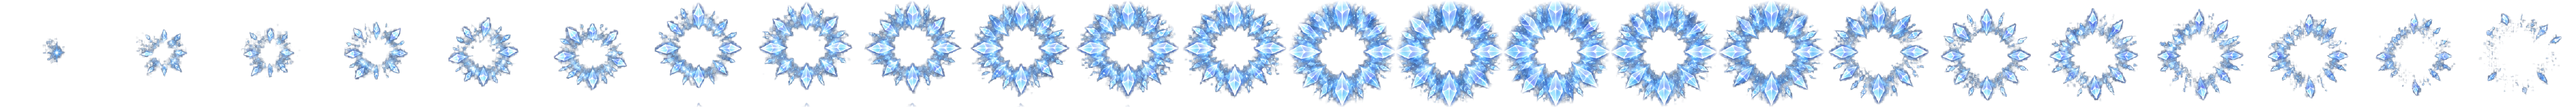
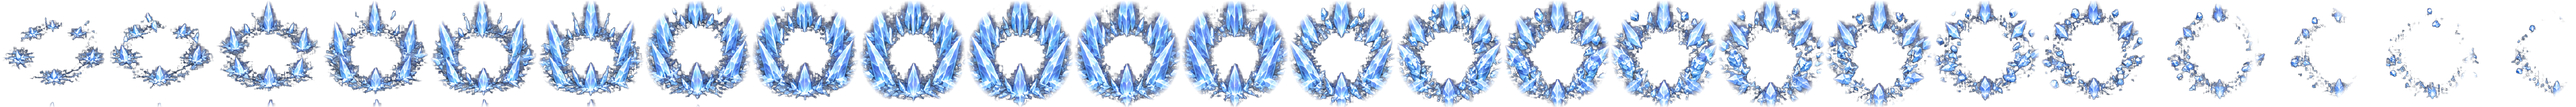
🌫 Meteoro sem a coroa de fumaça, e a Glacial nasce do chão
Três pedidos do dono na mesma madrugada.

🌫 A FUMAÇA DO METEORO SAI DO MEIO DA QUEDA PARA O FIM — "essa nuvem mais do
meio pro final não precisa, depois é somente o meteoro mesmo". A causa é física,
não gosto: a coroa é feita de filamentos de alfa baixo, e esta folha usa mistura
NORMAL. Alfa baixo em mistura normal é o desenho MISTURADO com o fundo — laranja
ralo sobre grama dá barro. Sobre o preto da folha de contato a mesma coroa é
bonita, e foi por isso que ela passou. Toda arte de FX tem de ser julgada sobre o
chão em que vai rodar.

✅ MEDIDO NA CÉLULA DE 128×218: rocha em y 160–192, rastro aceso até ~130, e de
~90 para cima só coroa. Corte em 128 com 42 px de rampa, e a força cresce do
quadro 7 ao 14 — 40 % do mergulho é fora da tela, então o jogador vê a fumaça
entrar junto com a pedra e ficar para trás.

🔴 E O FIM DA QUEDA VEM DE FORA DO CORTADOR: os quadros do estouro têm de 28 a
40 % da massa acima da mesma linha (é a nuvem do cogumelo). Rampa cega comeria o
estouro inteiro. O 19 do `fracaoQueda` virou argumento de linha de comando.

⚠ A MASSA CONTINUA MEDIDA ANTES DO VÉU. Ela decide quem é fagulha e sai da tira
— pergunta sobre o que foi DESENHADO, não sobre o que escolhemos mostrar.

⚠ ARMADILHA: a fonte é `meteoro_vertical3.png`. Da `meteoro_vertical.png` saem
17 quadros em vez de 27 — é outra arte. O comando certo está na ficha do cliente.

🧊 "AINDA NÃO ESTÁ NO CENTRO DO PERSONAGEM" — e não estava. O herói é desenhado
[…]

diff --git a/client/src/main.ts b/client/src/main.ts
@@ -2830,6 +2830,21 @@ async function startGame(playerName: string, charClass: PlayerClass, gender: Gen
      * ⚠ **O estouro não tem sincronia para acertar à mão**: o dano chega quando
      * a pedra toca o chão, que é o fim do mergulho (`quedaMs`), e os dois lados
      * usam o mesmo número.
+     *
+     * 🌫 **A COROA DE FUMAÇA É APAGADA NO CORTE, do meio da queda para o fim**
+     * (dono, 12/09: *"essa nuvem mais do meio pro final não precisa… depois é
+     * somente o meteoro mesmo"*). Quem faz isso é o `veuFumaca` do
+     * `meteoro-grade2fx`, e ele precisa saber onde a queda acaba — os quadros do
+     * estouro têm de 28 a 40 % da massa acima da mesma linha, e essa nuvem é o
+     * efeito. **O 19 do `fracaoQueda` abaixo é o mesmo número**, e vai na linha
+     * de comando do cortador.
+     *
+     * 🔴 **E a fonte é a `meteoro_vertical3.png`, não a `meteoro_vertical.png`.**
+     * Recortar da primeira dá 17 quadros em vez de 27 — o cortador acha as
+     * ilhas, não erra, é outra arte mesmo. Ficam as três no `arte-fonte/` porque
+     * o dono trocou a folha duas vezes no mesmo dia. Refazer o asset é:
+     *
+     *     node tools/meteoro-grade2fx.mjs arte-fonte/fx/meteoro_vertical3.png meteoro_queda 19
      */
     {
       magia: 'meteor_solo', arquivo: 'meteoro_queda', bolts: 1, quadros: 27,
@@ -3104,7 +3119,7 @@ async function startGame(playerName: string, charClass: PlayerClass, gender: Gen
    * estourar em 700 ms.
    */
   const FOLHA_FEITIO: Record<
-    string, { ancoraY: number; escala: number; dur: number }
+    string, { ancoraY: number; escala: number; dur: number; sobeY?: number }
   > = {
     /*
      * ⚠ **Âncora 0,5 na vertical, e não 0,72.** O cortador (`nova2fx`) centra
@@ -3122,14 +3137,57 @@ async function startGame(playerName: string, charClass: PlayerClass, gender: Gen
      * margem de drama de sempre, e nada além dela. A 1,7 o anel tinha dez tiles:
      * o mago ficava perdido dentro de um círculo de gelo do tamanho da tela.
      *
-     * ⚠ **A escala sobreviveu à quarta folha porque o BURACO foi medido.** O
-     * anel de 24 quadros (12/09) tem vão de raio 38–41 px em quadros de 192 —
-     * a 0,95, 2,3 tiles de diâmetro livre para um personagem de 1 tile. Era a
-     * exigência do dono: *"não pode sobrepor o personagem no centro"*. Toda
-     * folha nova precisa dessa medida ANTES de mexer na escala; a escala aqui é
-     * razão entre arte e tile, e não quer dizer nada sozinha.
+     * ⚠ **A escala sobreviveu a TRÊS trocas de folha porque o BURACO é medido.**
+     * O anel tinha vão de raio 38–41 px em quadros de 192; os cristais que
+     * vieram depois medem de 41 a 55. A 0,95 isso dá de 2,4 a 3,3 tiles de
+     * diâmetro livre, e o herói tem 38 px desenhados. Toda folha nova precisa
+     * dessa medida ANTES de mexer na escala; a escala aqui é razão entre arte e
+     * tile, e não quer dizer nada sozinha.
+     *
+     * ⚠ **`dur` anda junto com a CONTAGEM, não sozinho:** 800 ms para 24
+     * quadros são 33 ms cada. Se a folha mudar de contagem, este número muda
+     * também, senão as últimas fileiras — aqui, a névoa que sobra do gelo —
+     * passam antes de serem vistas. Foi a queixa do dono no estouro do Meteoro
+     * (*"aproveite todos os frames"*).
      */
-    glacial_burst: { ancoraY: 0.5, escala: 0.95, dur: 800 },
+    /*
+     * 🔴 **`sobeY` existe porque "centro do personagem" NÃO é onde ele pisa.**
+     *
+     * Dono, 12/09, com a magia já rodando: *"ainda não está no centro do
+     * personagem"*. O efeito chegava centrado onde devia — o `fx` traz o TILE do
+     * conjurador, e `tocaEfeito` recebia o rodapé dele. Só que o herói é
+     * desenhado PARA CIMA a partir dos pés, então um anel centrado nos pés fica
+     * com o corpo todo na metade de cima do buraco.
+     *
+     * ✅ **16 px são MEDIDOS, não arredondados por sorte:** a célula da folha de
+     * classe é 16 px (`CELL`, `miniworld.ts`), a escala do herói é 2,4 e a âncora
+     * dele é 0,92 — 38,4 px desenhados, dos quais 0,42 ficam acima do ponto de
+     * apoio. Dá 16,1 px, e o meio tile é a mesma coisa até o pixel.
+     *
+     * ⚠ **Quem mudar o tamanho do herói invalida este número.** Ele é uma razão
+     * entre o desenho do personagem e o tile — a mesma família de `ESCALA_IMPACTO`,
+     * que já perseguiu cinco folhas do Meteoro. Se o herói crescer, isto cresce.
+     *
+     * 🔴 **E `sobeY` VOLTOU A ZERO poucos minutos depois, com a arte nova.**
+     *
+     * Chegaram os cristais que o dono anunciou (*"esfinges que saem do chão"*),
+     * e com eles a regra: *"elas têm que sair diretamente do chão para parecer
+     * que são forjadas na magia"*. Isso decide a âncora contra o pedido
+     * anterior, e não é contradição — **eram artes diferentes**. O anel velho era
+     * um estouro FLUTUANDO em volta do mago, e um estouro se centra no corpo. Um
+     * círculo de cristais é CHÃO: a base deles tem de encostar onde o mago pisa,
+     * senão o gelo nasce no ar.
+     *
+     * ✅ **E o mago continua visível, medido:** o buraco da roda tem raio de 41 a
+     * 55 px e o herói tem 38 px desenhados, dos quais 35 acima dos pés. Centrada
+     * nos pés, a roda o engole inteiro sem tocá-lo — que era a exigência
+     * original (*"não pode sobrepor o personagem no centro"*). Foi a folha que
+     * resolveu o conflito entre os dois pedidos, não um meio-termo.
+     *
+     * ⚠ `sobeY` fica no código porque a próxima arte pode voltar a flutuar. O
+     * número medido para "meio do corpo" é `TS / 2` — ver a dedução acima.
+     */
+    glacial_burst: { ancoraY: 0.5, escala: 0.95, dur: 800, sobeY: 0 },
   };
 
   function tocaEfeito(nome: string, wx: number, wy: number): void {
@@ -3141,7 +3199,8 @@ async function startGame(playerName: string, charClass: PlayerClass, gender: Gen
     node.anchor.set(0.5, feitio?.ancoraY ?? 0.72);
     if (feitio) node.scale.set(feitio.escala);
     node.x = wx;
-    node.y = wy;
+    // ⚠ `sobeY` sobe o efeito dos PÉS para o meio do corpo. Ver `FOLHA_FEITIO`.
+    node.y = wy - (feitio?.sobeY ?? 0);
     node.zIndex = 9997;
     node.animationSpeed = frames.length / ((feitio?.dur ?? DUR_EFEITO) / (1000 / 60));
     fxLayer.addChild(node);

diff --git a/docs/HISTORICO.md b/docs/HISTORICO.md
@@ -9,6 +9,88 @@ decisões de design ficaram travadas por teste.
 
 ---
 
+## 2026-09-12 (madrugada) — A fumaça do Meteoro sai no corte, e a Glacial aterrissa
+
+**Onde mora:** `veuFumaca` em `tools/meteoro-grade2fx.mjs` · `FUNDO` em
+`tools/nova2fx.mjs` · `sobeY` em `FOLHA_FEITIO` e `tocaEfeito`,
+`client/src/main.ts` · `arte-fonte/fx/glacial6.png`
+
+Três pedidos do dono na mesma madrugada, e cada um cobrou uma regra que já estava escrita.
+
+### 🌫 A coroa de fumaça é LARANJA no arquivo e MARROM no jogo
+
+*"Essa nuvem mais do meio pro final da magia de meteoro não precisa; seria somente quando o
+meteoro desce do céu no início, depois é somente o meteoro mesmo."*
+
+🔴 **A queixa tem uma causa física, e não é gosto.** A coroa é feita de filamentos de alfa
+baixo. Esta folha usa mistura NORMAL (foi o conserto de *"ele está muito transparente"*), e
+alfa baixo em mistura normal é o desenho MISTURADO com o fundo — laranja ralo sobre grama dá
+barro. Sobre o preto da folha de contato a mesma coroa é bonita. **Toda arte de FX tem de
+ser julgada sobre o chão em que vai rodar**; foi por isso que as medições desta noite saíram
+compostas sobre verde, e não sobre xadrez.
+
+✅ **O corte é medido na célula de 128×218:** a rocha vive em y 160–192, o rastro aceso sobe
+até ~130, e de ~90 para cima é só coroa. Daí `FUMACA_TOPO = 128` com 42 px de rampa — o
+rastro se dissolve subindo, sem aresta reta.
+
+✅ **E a força cresce com o QUADRO**, que é o que atende a frase. Medido, 40 % do mergulho
+acontece fora da tela: a pedra entra em cena lá pelo quadro 8. Apagando de 7 a 14, o jogador
+vê a fumaça entrar junto com o meteoro e ficar para trás.
+
+🔴 **O limite da queda tem de vir de FORA do cortador.** Os quadros do estouro carregam de 28
+a 40 % da massa acima da mesma linha — é a nuvem do cogumelo, que é o efeito. Uma rampa cega
+comeria o estouro inteiro. O `19` do `fracaoQueda` do cliente virou argumento de linha de
+comando.
+
+⚠ **E a massa continua medida ANTES do véu.** Ela decide quais desenhos são fagulha e saem
+da tira; essa pergunta é sobre o que o gerador DESENHOU, não sobre o que escolhemos mostrar.
+Descontar a fumaça ali faria um quadro de queda virar fagulha por causa de uma decisão de
+gosto.
+
+⚠ **Armadilha achada no caminho: a fonte é a `meteoro_vertical3.png`.** Recortar da
+`meteoro_vertical.png` dá 17 quadros em vez de 27 — o cortador não erra, é outra arte. As
+três folhas que o dono trocou no mesmo dia continuam no `arte-fonte/`, e agora o comando
+certo está escrito na ficha do cliente.
+
+### 🧊 "Ainda não está no centro do personagem" — e não estava mesmo
+
+O efeito chegava centrado onde devia: o `fx` traz o TILE do conjurador. Só que o herói é
+desenhado PARA CIMA a partir dos pés, então um anel centrado nos pés deixa o corpo todo na
+metade de cima do buraco.
+
+✅ **16 px, e são medidos:** a célula da folha de classe é 16 px, a escala do herói é 2,4 e a
+âncora dele é 0,92 — 38,4 px desenhados, dos quais 0,42 ficam acima do ponto de apoio. Dá
+16,1, e meio tile é a mesma coisa até o pixel. Entrou como `sobeY` no `FOLHA_FEITIO`.
+
+🔄 **E foi a zero vinte minutos depois**, quando chegou a arte nova: *"elas têm que sair
+diretamente do chão para parecer que são forjadas na magia"*. Não é contradição — **eram
+artes diferentes**. O anel velho era um estouro FLUTUANDO em volta do mago, e estouro se
+centra no corpo; um círculo de cristais é CHÃO, e a base deles tem de encostar onde o mago
+pisa. O campo fica porque a próxima arte pode voltar a flutuar.
+
+✅ **Quem resolveu o conflito entre os dois pedidos foi a folha, e não um meio-termo:** o
+buraco da roda tem raio de 41 a 55 px contra 35 px de herói acima dos pés. Centrada nos pés,
+ela o engole inteiro sem tocá-lo.
+
+### 🔴 O limiar tirado de UM caso errou a folha seguinte, como sempre
+
+O `FUNDO_CLARO` de ontem dizia *"mediana de luminância > 140"*, medida numa folha cujo xadrez
+pintado era cinza 210. A folha das 00h58 veio com xadrez ESCURO — mediana 132 — e o ramo não
+ligou: o recorte saiu com um disco quadriculado e, com tudo virando "desenho", a centragem
+foi junto, cortando os anéis pela metade.
+
+✅ **O que separa xadrez pintado de fundo PRETO não é o brilho em absoluto:** é o fundo ser
+NEUTRO **e** não ser preto (folha preta também é neutra, e lá a chave certa é o brilho, que
+recupera a fumaça cinza do Meteoro). Os dois viraram medida da própria folha, e o teto do
+corte de brilho passou a sair do percentil 75 dos pixels sem cor — o topo do próprio xadrez —
+em vez de um 236 cravado.
+
+⚠ É a **terceira** vez que uma regra tirada de um ou dois casos custa uma rodada neste
+projeto. Fica a frase de 11/09, agora com juros: *regra tirada de dois casos é palpite com
+currículo*.
+
+---
+
 ## 2026-09-12 — A quarta folha da Glacial, e a chave que lê fundo CLARO
 
 **Onde mora:** `FUNDO_CLARO` em `tools/nova2fx.mjs` · `glacial_burst` em
